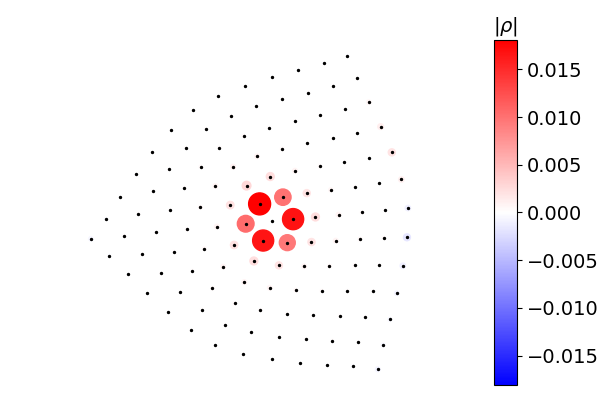
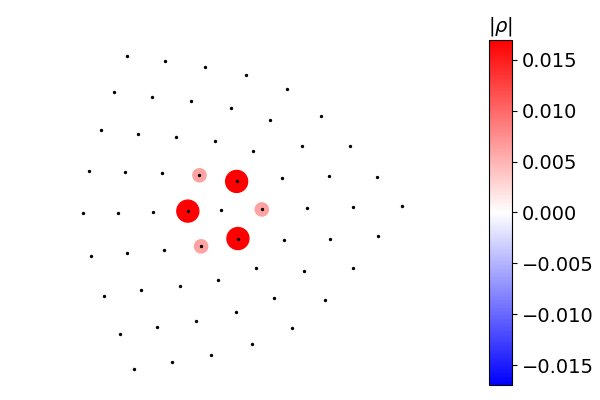
Actually fixed disclinations

diff --git a/src/disclination.py b/src/disclination.py
@@ -242,7 +242,8 @@ def disclination_hamiltonian_blocks(nx: int, mass: float, phs_mass: float, disc_
         h_xz = -1 / 4 * np.kron(gamma_0, sigma_x)
         h_yz = -1 / 4 * np.kron(gamma_0, sigma_y)
         h_disc_nnn_y = np.dot(nlg.inv(u_4), h_yz)
-        h_disc_nnn_x = np.dot(h_xz, u_4)
+        # h_disc_nnn_x = np.dot(h_xz, u_4)
+        h_disc_nnn_x = np.dot(h_yz, u_4)
 
         nnn_x_hopping = x_hopping_matrix(nx, disc_type, core_hopping=False)
         nnn_y_hopping = y_hopping_matrix(nx, disc_type, core_hopping=False)
